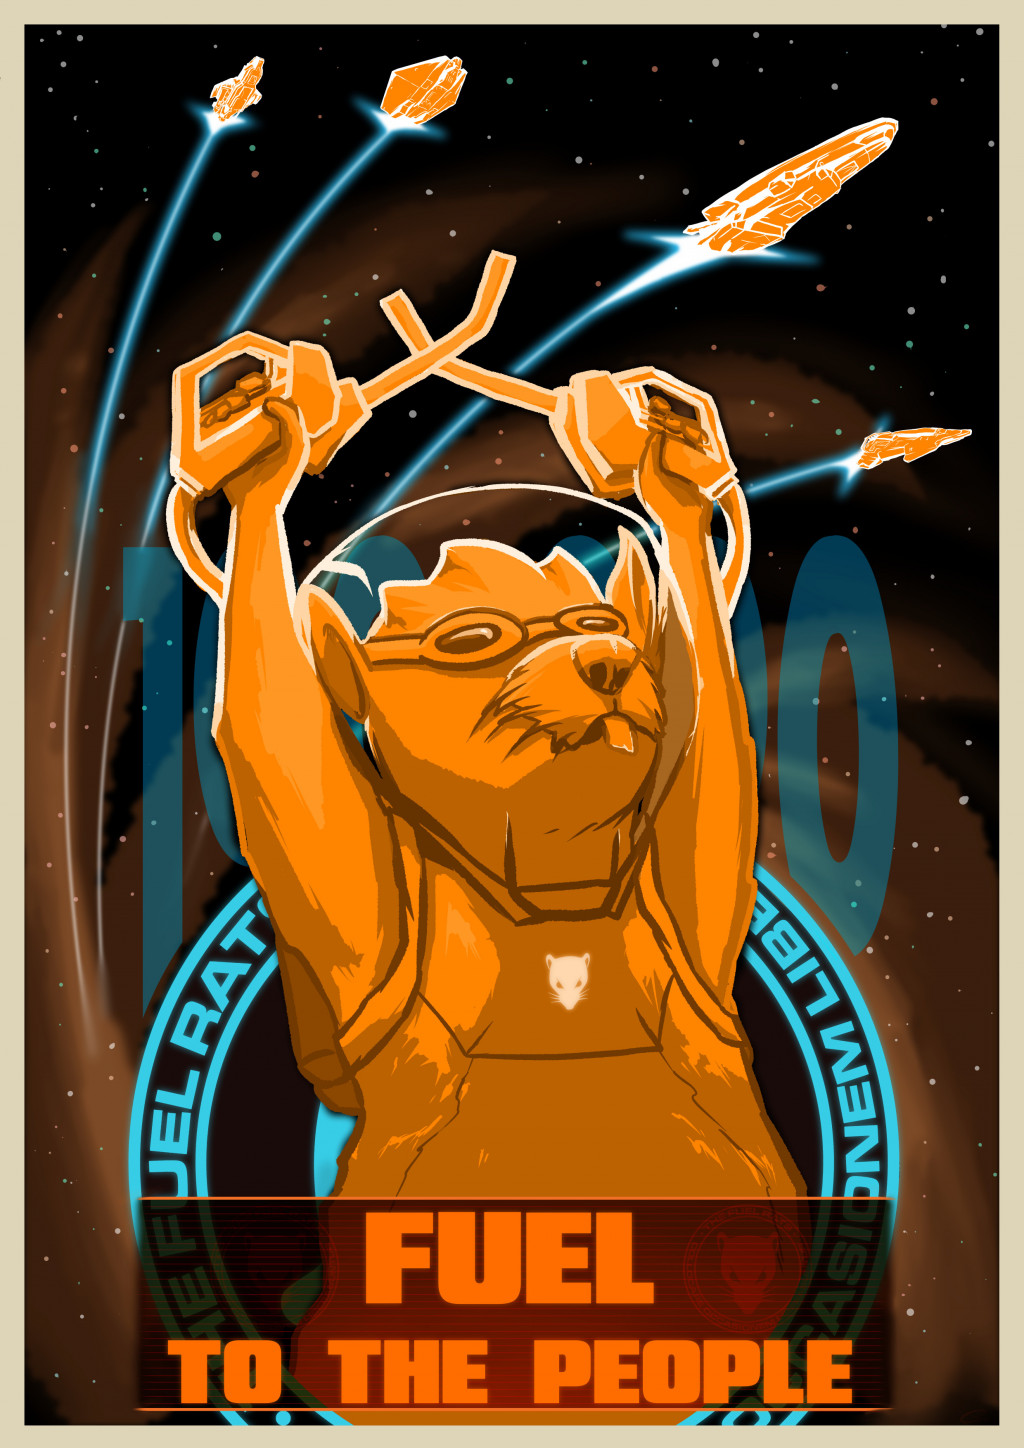
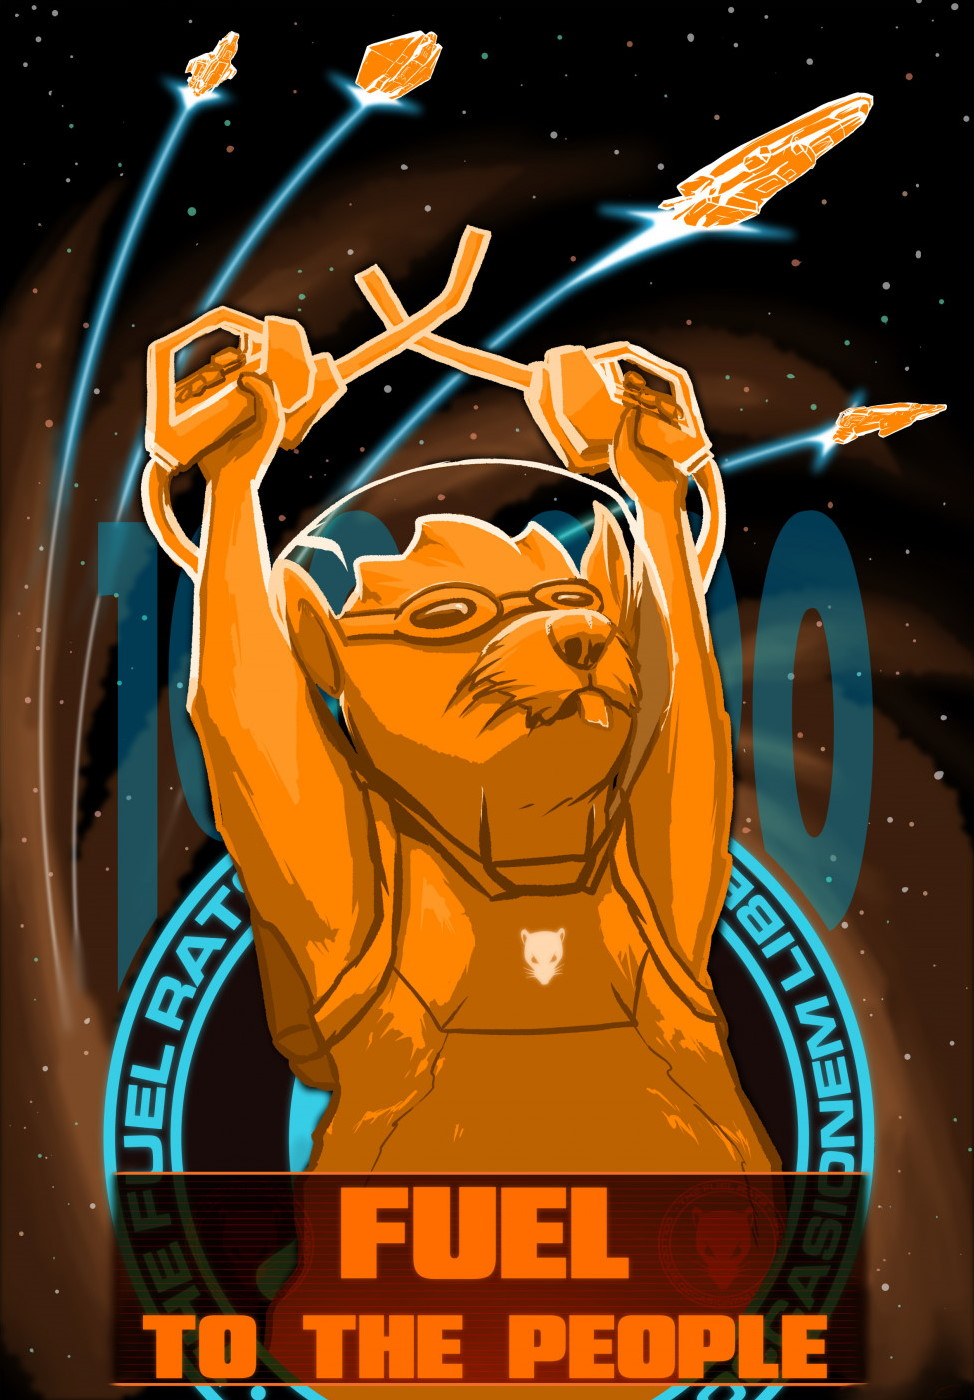
feat(FrontPageNotice): add 100k rescues notice

diff --git a/src/components/FrontPageNotice/FrontPageNotice.module.scss b/src/components/FrontPageNotice/FrontPageNotice.module.scss
@@ -1,0 +1,84 @@
+@import '../../scss/colors';
+
+.frontPageNotice {
+  display: flex;
+  position: fixed;
+  right: 1rem;
+  bottom: 6rem;
+  z-index: 50;
+
+  flex-direction: column;
+
+  width: 256px;
+  max-height: 50rem;
+
+  box-shadow: 0 0 4px 0 #000000;
+  background: rgba($black, 67%);
+  transition: transform 0.2s ease, max-height 0.2s ease-in-out;
+
+  cursor: pointer;
+
+  backdrop-filter: blur(5px);
+
+  transform-origin: bottom right;
+  backface-visibility: hidden;
+  -webkit-font-smoothing: subpixel-antialiased;
+
+
+  .cardText {
+    height: 100%;
+    margin: 1rem;
+
+
+    .title {
+      color: $grey;
+
+      text-align: center;
+    }
+
+
+    .sub {
+      display: block;
+
+      text-align: right;
+    }
+  }
+
+  @media (hover: hover) {
+    &:hover {
+      transform: scale(1.05);
+    }
+  }
+  @media
+    (max-width: 1200px),
+    (max-height: 560px) {
+    width: auto;
+    max-height: 15rem;
+
+    img {
+      object-fit: cover;
+      object-position: center 47%;
+    }
+  }
+  @media (max-width: 768px) {
+    right: 2rem;
+    left: 2rem;
+
+    flex-direction: row;
+    justify-content: space-between;
+    transform-origin: bottom center;
+
+    max-height: 7rem;
+
+    div:first-child {
+      flex-basis: 110px;
+    }
+
+    img {
+      object-fit: none;
+    }
+  }
+  @media (max-width: 360px) {
+    display: none;
+  }
+}

diff --git a/src/components/FrontPageNotice/FrontPageNotice.js b/src/components/FrontPageNotice/FrontPageNotice.js
@@ -1,0 +1,51 @@
+import Image from 'next/image'
+import PropTypes from 'prop-types'
+
+import { makePaperworkRoute } from '~/helpers/routeGen'
+
+import AuthDependantLink from '../AuthDependantLink'
+import styles from './FrontPageNotice.module.scss'
+
+
+
+
+// Component Constants
+const RESCUE_LINK = makePaperworkRoute({ rescueId: 'c6401fe8-dbc4-471f-8fb7-1240c83dc031' })
+const TWEET_LINK = 'https://twitter.com/FuelRats/status/1352723827067904000'
+
+
+
+
+
+function FrontPageNotice (props) {
+  const {
+    className,
+  } = props
+
+  return (
+    <AuthDependantLink
+      elseExternal
+      elseHref={TWEET_LINK}
+      href={RESCUE_LINK}>
+      <div className={[styles.frontPageNotice, className]}>
+        <Image height={368} src="/static/images/100k.jpg" width={256} />
+        <div className={styles.cardText}>
+          <div className={styles.title}>
+            {'Celebrating 100,000 rescues!'}
+          </div>
+          <small className={styles.sub}>{'Art by Òssa Major'}</small>
+        </div>
+      </div>
+    </AuthDependantLink>
+  )
+}
+
+FrontPageNotice.propTypes = {
+  className: PropTypes.string,
+}
+
+
+
+
+
+export default FrontPageNotice

diff --git a/src/pages/index.js b/src/pages/index.js
@@ -3,6 +3,7 @@ import Router from 'next/router'
 import React from 'react'
 
 import Carousel from '~/components/Carousel'
+import FrontPageNotice from '~/components/FrontPageNotice'
 import { makeRoute } from '~/helpers/routeGen'
 import { connect } from '~/store'
 
@@ -82,7 +83,7 @@ class Index extends React.Component {
           </Link>
         </footer>
 
-
+        <FrontPageNotice />
       </section>
     )
   }

diff --git a/src/components/FrontPageNotice/index.js b/src/components/FrontPageNotice/index.js
@@ -1,0 +1,1 @@
+export { default } from './FrontPageNotice'
